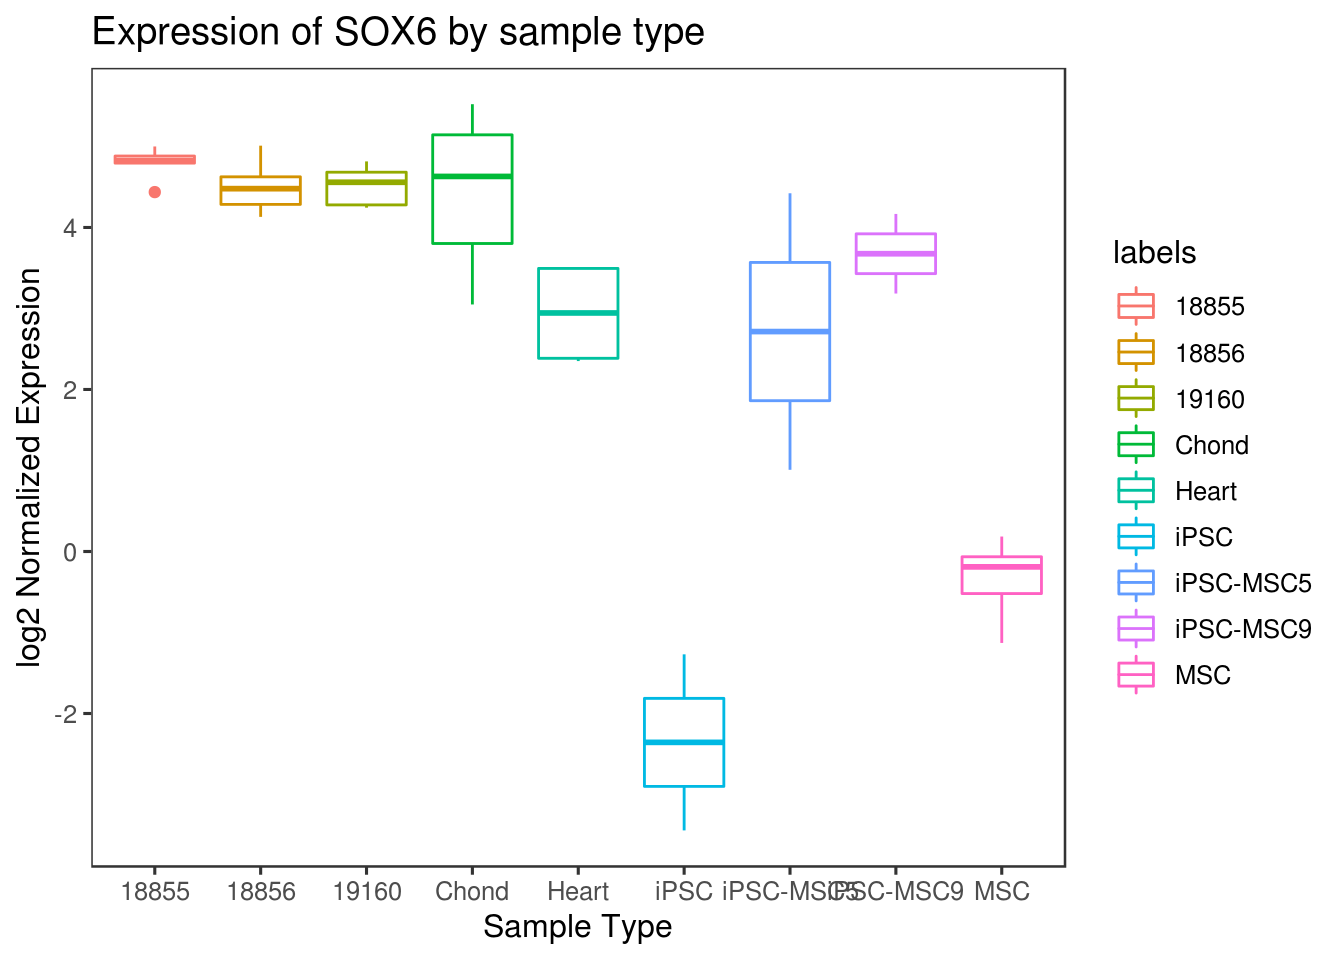
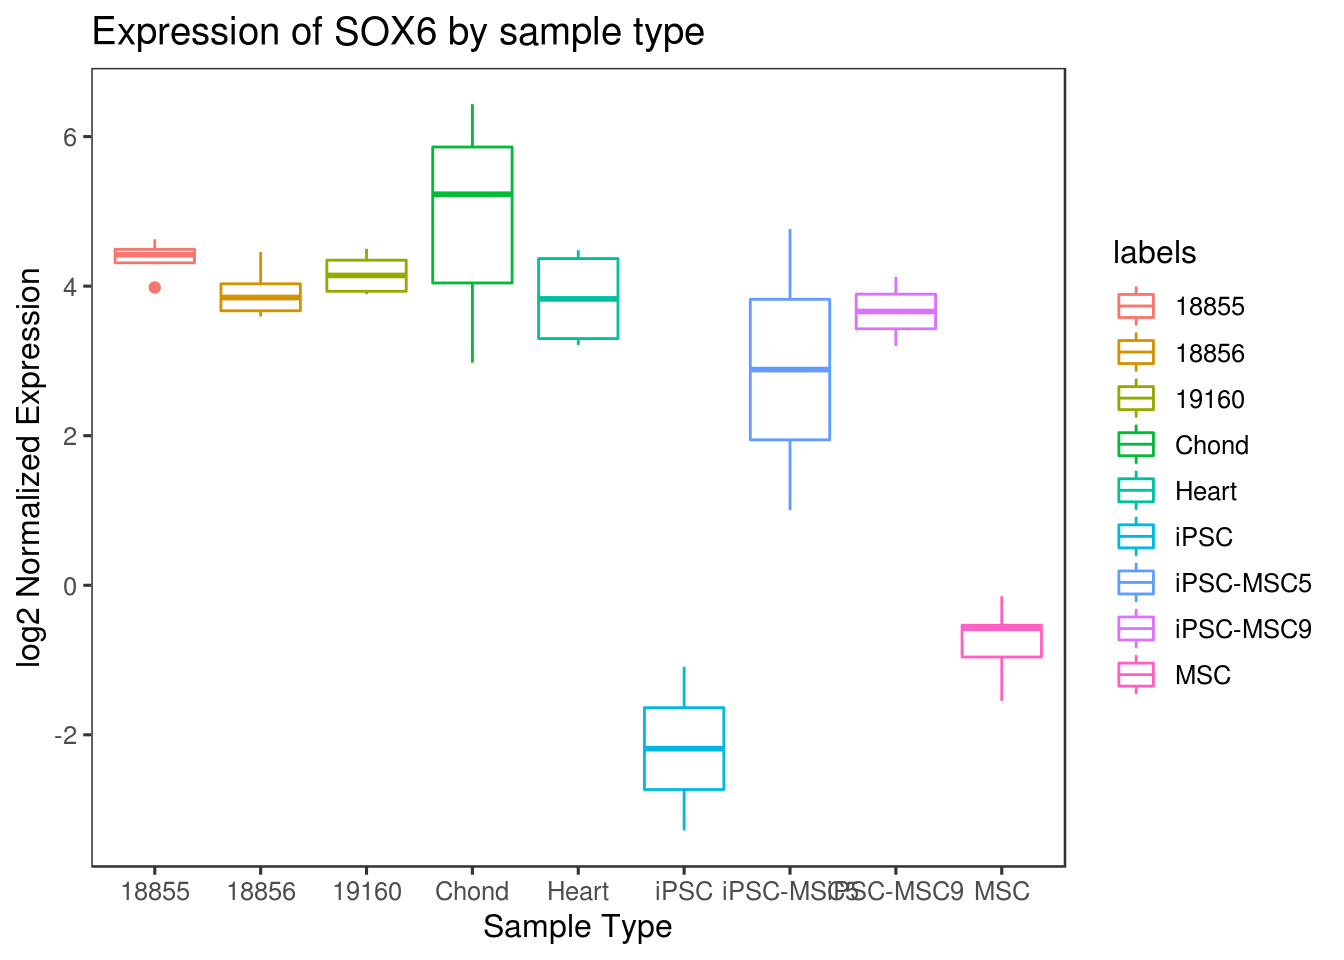
check expression using RLE norm

diff --git a/docs/Bulk_cellComposition_analysis.html b/docs/Bulk_cellComposition_analysis.html
@@ -404,7 +404,7 @@ div.section {
 <div class="tab-content">
 <div id="summary" class="tab-pane fade in active">
 <p>
-<strong>Last updated:</strong> 2020-02-18
+<strong>Last updated:</strong> 2020-02-19
 </p>
 <p>
 <strong>Checks:</strong> <span class="glyphicon glyphicon-ok text-success" aria-hidden="true"></span> 6 <span class="glyphicon glyphicon-exclamation-sign text-danger" aria-hidden="true"></span> 1
@@ -495,10 +495,10 @@ This reproducible <a href="http://rmarkdown.rstudio.com">R Markdown</a> analysis
 <div class="panel panel-default">
 <div class="panel-heading">
 <p class="panel-title">
-<a data-toggle="collapse" data-parent="#workflowr-checks" href="#strongRepositoryversionstrongahrefhttpsgithubcomanthonyhungOAStraintree2bbbdad15237735154e8db0270272fefd55760a9targetblank2bbbdada"> <span class="glyphicon glyphicon-ok text-success" aria-hidden="true"></span> <strong>Repository version:</strong> <a href="https://github.com/anthonyhung/OAStrain/tree/2bbbdad15237735154e8db0270272fefd55760a9" target="_blank">2bbbdad</a> </a>
+<a data-toggle="collapse" data-parent="#workflowr-checks" href="#strongRepositoryversionstrongahrefhttpsgithubcomanthonyhungOAStraintree88682cc9e2c11f7ae7ba25b9959dfde687206e29targetblank88682cca"> <span class="glyphicon glyphicon-ok text-success" aria-hidden="true"></span> <strong>Repository version:</strong> <a href="https://github.com/anthonyhung/OAStrain/tree/88682cc9e2c11f7ae7ba25b9959dfde687206e29" target="_blank">88682cc</a> </a>
 </p>
 </div>
[2 lines of base64/hex data omitted]
 <div class="panel-body">
 <p>
 Great! You are using Git for version control. Tracking code development and connecting the code version to the results is critical for reproducibility. The version displayed above was the version of the Git repository at the time these results were generated. <br><br> Note that you need to be careful to ensure that all relevant files for the analysis have been committed to Git prior to generating the results (you can use <code>wflow_publish</code> or <code>wflow_git_commit</code>). workflowr only checks the R Markdown file, but you know if there are other scripts or data files that it depends on. Below is the status of the Git repository when the results were generated:
@@ -529,7 +529,6 @@ Ignored files:
 
 Unstaged changes:
     Modified:   analysis/Bulk_cellComposition_analysis.Rmd
-    Modified:   analysis/Pilot_GoMAnalysis.Rmd
 
 </code></pre>
 <p>
@@ -568,6 +567,40 @@ Message
 </tr>
 </thead>
 <tbody>
+<tr>
+<td>
+Rmd
+</td>
+<td>
+<a href="https://github.com/anthonyhung/OAStrain/blob/605da875aae021b28ea700a7c7af372b50a19dc6/analysis/Bulk_cellComposition_analysis.Rmd" target="_blank">605da87</a>
+</td>
+<td>
+Anthony Hung
+</td>
+<td>
+2020-02-18
+</td>
+<td>
+Check expression of chondro markers in outside datasets
+</td>
+</tr>
+<tr>
+<td>
+html
+</td>
+<td>
+<a href="https://rawcdn.githack.com/anthonyhung/OAStrain/605da875aae021b28ea700a7c7af372b50a19dc6/docs/Bulk_cellComposition_analysis.html" target="_blank">605da87</a>
+</td>
+<td>
+Anthony Hung
+</td>
+<td>
+2020-02-18
+</td>
+<td>
+Check expression of chondro markers in outside datasets
+</td>
+</tr>
 <tr>
 <td>
 Rmd
@@ -4839,26 +4872,285 @@ boxplot_gene_sample_type &lt;- function(counts_, info_, gene_, name, y_axis = &q
 labels &lt;- sapply(strsplit(colnames(merged_raw_data),&quot;_&quot;), `[`, 1)
 
 #SOX9
-boxplot_gene_sample_type(filtered_upperquartile, labels, &quot;ENSG00000125398&quot;, &quot;SOX9&quot;)</code></pre>
+boxplot_gene_sample_type(filtered_RLE, labels, &quot;ENSG00000125398&quot;, &quot;SOX9&quot;)</code></pre>
 <p><img src="figure/Bulk_cellComposition_analysis.Rmd/chond%20markers-1.png" width="672" style="display: block; margin: auto;" /></p>
+<p>
+<button type="button" class="btn btn-default btn-xs btn-workflowr btn-workflowr-fig" data-toggle="collapse" data-target="#fig-no-spaces-chond-markers-1">
+Past versions of “chond markers-1.png”
+</button>
+</p>
+<div id="fig-no-spaces-chond-markers-1" class="collapse">
+<div class="table-responsive">
+<table class="table table-condensed table-hover">
+<thead>
+<tr>
+<th>
+Version
+</th>
+<th>
+Author
+</th>
+<th>
+Date
+</th>
+</tr>
+</thead>
+<tbody>
+<tr>
+<td>
+<a href="https://github.com/anthonyhung/OAStrain/blob/605da875aae021b28ea700a7c7af372b50a19dc6/docs/figure/Bulk_cellComposition_analysis.Rmd/chond markers-1.png" target="_blank">605da87</a>
+</td>
+<td>
+Anthony Hung
+</td>
+<td>
+2020-02-18
+</td>
+</tr>
+</tbody>
+</table>
+</div>
+</div>
 <pre class="r"><code>#ACAN
-boxplot_gene_sample_type(filtered_upperquartile, labels, &quot;ENSG00000157766&quot;, &quot;ACAN&quot;)</code></pre>
+boxplot_gene_sample_type(filtered_RLE, labels, &quot;ENSG00000157766&quot;, &quot;ACAN&quot;)</code></pre>
 <p><img src="figure/Bulk_cellComposition_analysis.Rmd/chond%20markers-2.png" width="672" style="display: block; margin: auto;" /></p>
+<p>
+<button type="button" class="btn btn-default btn-xs btn-workflowr btn-workflowr-fig" data-toggle="collapse" data-target="#fig-no-spaces-chond-markers-2">
+Past versions of “chond markers-2.png”
+</button>
+</p>
+<div id="fig-no-spaces-chond-markers-2" class="collapse">
+<div class="table-responsive">
+<table class="table table-condensed table-hover">
+<thead>
+<tr>
+<th>
+Version
+</th>
+<th>
+Author
+</th>
+<th>
+Date
+</th>
+</tr>
+</thead>
+<tbody>
+<tr>
+<td>
+<a href="https://github.com/anthonyhung/OAStrain/blob/605da875aae021b28ea700a7c7af372b50a19dc6/docs/figure/Bulk_cellComposition_analysis.Rmd/chond markers-2.png" target="_blank">605da87</a>
+</td>
+<td>
+Anthony Hung
+</td>
+<td>
+2020-02-18
+</td>
+</tr>
+</tbody>
+</table>
+</div>
+</div>
 <pre class="r"><code>#COL11A1
-boxplot_gene_sample_type(filtered_upperquartile, labels, &quot;ENSG00000060718&quot;, &quot;COL11A1&quot;)</code></pre>
+boxplot_gene_sample_type(filtered_RLE, labels, &quot;ENSG00000060718&quot;, &quot;COL11A1&quot;)</code></pre>
 <p><img src="figure/Bulk_cellComposition_analysis.Rmd/chond%20markers-3.png" width="672" style="display: block; margin: auto;" /></p>
+<p>
+<button type="button" class="btn btn-default btn-xs btn-workflowr btn-workflowr-fig" data-toggle="collapse" data-target="#fig-no-spaces-chond-markers-3">
+Past versions of “chond markers-3.png”
+</button>
+</p>
+<div id="fig-no-spaces-chond-markers-3" class="collapse">
+<div class="table-responsive">
+<table class="table table-condensed table-hover">
+<thead>
+<tr>
+<th>
+Version
+</th>
+<th>
+Author
+</th>
+<th>
+Date
+</th>
+</tr>
+</thead>
+<tbody>
+<tr>
+<td>
+<a href="https://github.com/anthonyhung/OAStrain/blob/605da875aae021b28ea700a7c7af372b50a19dc6/docs/figure/Bulk_cellComposition_analysis.Rmd/chond markers-3.png" target="_blank">605da87</a>
+</td>
+<td>
+Anthony Hung
+</td>
+<td>
+2020-02-18
+</td>
+</tr>
+</tbody>
+</table>
+</div>
+</div>
 <pre class="r"><code>#SOX5
-boxplot_gene_sample_type(filtered_upperquartile, labels, &quot;ENSG00000134532&quot;, &quot;SOX5&quot;)</code></pre>
+boxplot_gene_sample_type(filtered_RLE, labels, &quot;ENSG00000134532&quot;, &quot;SOX5&quot;)</code></pre>
 <p><img src="figure/Bulk_cellComposition_analysis.Rmd/chond%20markers-4.png" width="672" style="display: block; margin: auto;" /></p>
+<p>
+<button type="button" class="btn btn-default btn-xs btn-workflowr btn-workflowr-fig" data-toggle="collapse" data-target="#fig-no-spaces-chond-markers-4">
+Past versions of “chond markers-4.png”
+</button>
+</p>
+<div id="fig-no-spaces-chond-markers-4" class="collapse">
+<div class="table-responsive">
+<table class="table table-condensed table-hover">
+<thead>
+<tr>
+<th>
+Version
+</th>
+<th>
+Author
+</th>
+<th>
+Date
+</th>
+</tr>
+</thead>
+<tbody>
+<tr>
+<td>
+<a href="https://github.com/anthonyhung/OAStrain/blob/605da875aae021b28ea700a7c7af372b50a19dc6/docs/figure/Bulk_cellComposition_analysis.Rmd/chond markers-4.png" target="_blank">605da87</a>
+</td>
+<td>
+Anthony Hung
+</td>
+<td>
+2020-02-18
+</td>
+</tr>
+</tbody>
+</table>
+</div>
+</div>
 <pre class="r"><code>#SOX6
-boxplot_gene_sample_type(filtered_upperquartile, labels, &quot;ENSG00000110693&quot;, &quot;SOX6&quot;)</code></pre>
+boxplot_gene_sample_type(filtered_RLE, labels, &quot;ENSG00000110693&quot;, &quot;SOX6&quot;)</code></pre>
 <p><img src="figure/Bulk_cellComposition_analysis.Rmd/chond%20markers-5.png" width="672" style="display: block; margin: auto;" /></p>
+<p>
+<button type="button" class="btn btn-default btn-xs btn-workflowr btn-workflowr-fig" data-toggle="collapse" data-target="#fig-no-spaces-chond-markers-5">
+Past versions of “chond markers-5.png”
+</button>
+</p>
+<div id="fig-no-spaces-chond-markers-5" class="collapse">
+<div class="table-responsive">
+<table class="table table-condensed table-hover">
+<thead>
+<tr>
+<th>
+Version
+</th>
+<th>
+Author
+</th>
+<th>
+Date
+</th>
+</tr>
+</thead>
+<tbody>
+<tr>
+<td>
+<a href="https://github.com/anthonyhung/OAStrain/blob/605da875aae021b28ea700a7c7af372b50a19dc6/docs/figure/Bulk_cellComposition_analysis.Rmd/chond markers-5.png" target="_blank">605da87</a>
+</td>
+<td>
+Anthony Hung
+</td>
+<td>
+2020-02-18
+</td>
+</tr>
+</tbody>
+</table>
+</div>
+</div>
 <pre class="r"><code>#TGFB3
-boxplot_gene_sample_type(filtered_upperquartile, labels, &quot;ENSG00000119699&quot;, &quot;TGFB3&quot;)</code></pre>
+boxplot_gene_sample_type(filtered_RLE, labels, &quot;ENSG00000119699&quot;, &quot;TGFB3&quot;)</code></pre>
 <p><img src="figure/Bulk_cellComposition_analysis.Rmd/chond%20markers-6.png" width="672" style="display: block; margin: auto;" /></p>
+<p>
+<button type="button" class="btn btn-default btn-xs btn-workflowr btn-workflowr-fig" data-toggle="collapse" data-target="#fig-no-spaces-chond-markers-6">
+Past versions of “chond markers-6.png”
+</button>
+</p>
+<div id="fig-no-spaces-chond-markers-6" class="collapse">
+<div class="table-responsive">
+<table class="table table-condensed table-hover">
+<thead>
+<tr>
+<th>
+Version
+</th>
+<th>
+Author
+</th>
+<th>
+Date
+</th>
+</tr>
+</thead>
+<tbody>
+<tr>
+<td>
+<a href="https://github.com/anthonyhung/OAStrain/blob/605da875aae021b28ea700a7c7af372b50a19dc6/docs/figure/Bulk_cellComposition_analysis.Rmd/chond markers-6.png" target="_blank">605da87</a>
+</td>
+<td>
+Anthony Hung
+</td>
+<td>
+2020-02-18
+</td>
+</tr>
+</tbody>
+</table>
+</div>
+</div>
 <pre class="r"><code>#COL2A1
 boxplot_gene_sample_type(merged_raw_data$counts, labels, &quot;ENSG00000139219&quot;, &quot;COL2A1&quot;, y_axis = &quot;Raw counts&quot;)</code></pre>
 <p><img src="figure/Bulk_cellComposition_analysis.Rmd/chond%20markers-7.png" width="672" style="display: block; margin: auto;" /></p>
+<p>
+<button type="button" class="btn btn-default btn-xs btn-workflowr btn-workflowr-fig" data-toggle="collapse" data-target="#fig-no-spaces-chond-markers-7">
+Past versions of “chond markers-7.png”
+</button>
+</p>
+<div id="fig-no-spaces-chond-markers-7" class="collapse">
+<div class="table-responsive">
+<table class="table table-condensed table-hover">
+<thead>
+<tr>
+<th>
+Version
+</th>
+<th>
+Author
+</th>
+<th>
+Date
+</th>
+</tr>
+</thead>
+<tbody>
+<tr>
+<td>
+<a href="https://github.com/anthonyhung/OAStrain/blob/605da875aae021b28ea700a7c7af372b50a19dc6/docs/figure/Bulk_cellComposition_analysis.Rmd/chond markers-7.png" target="_blank">605da87</a>
+</td>
+<td>
+Anthony Hung
+</td>
+<td>
+2020-02-18
+</td>
+</tr>
+</tbody>
+</table>
+</div>
+</div>
 <br>
 <p>
 <button type="button" class="btn btn-default btn-workflowr btn-workflowr-sessioninfo" data-toggle="collapse" data-target="#workflowr-sessioninfo" style="display: block;">
